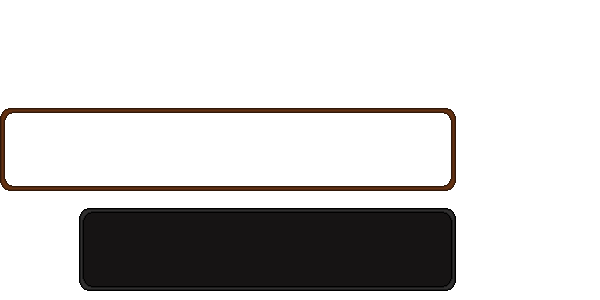
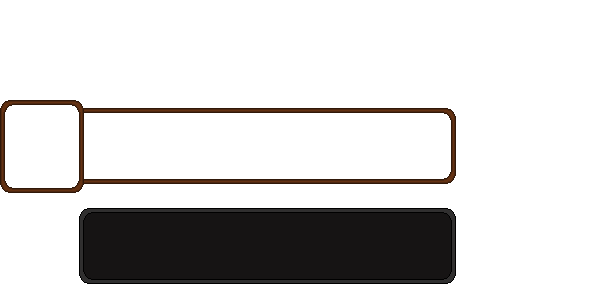
saving textbox improvement ^_^

Changed region(s): [[0.0, 0.33, 0.78, 0.66], [0.12, 0.9, 0.78, 0.99]]

diff --git a/scripts/npcScripts/npcDialogue.js b/scripts/npcScripts/npcDialogue.js
@@ -1427,13 +1427,13 @@ const npcDialogue = {
                 "introFastTravel":{
                     "node1":{
                         "dialogue": "Oh! A new face in town!",
-                        "profile":"autumnSmile",
+                        "profile":"autumnStarEyes",
                         "textvoice":"batChirp",
                         "children":["node2"]
                     },
                     "node2":{
                         "dialogue": "Name\'s Autumn, and me and my friend Moff are in charge of this lovely post office behind you!",
-                        "profile":"autumnSmile",
+                        "profile":"autumnHappy",
                         "textvoice":"batChirp",
                         "children":["node3"]
                     },
@@ -1445,13 +1445,13 @@ const npcDialogue = {
                     },
                     "node4":{
                         "dialogue": "If there\'s a place you have been to, then I would be happy to take you, for a small fee of course.",
-                        "profile":"autumnSmile",
+                        "profile":"autumnWinkAndHeart",
                         "textvoice":"batChirp",
                         "children":["node5"]
                     },
                     "node5":{
                         "dialogue": "Just let me know if you\'re interested! ",
-                        "profile":"autumnSmile",
+                        "profile":"autumnHappy",
                         "textvoice":"batChirp",
                         "children":[]
                     },
@@ -1459,7 +1459,7 @@ const npcDialogue = {
                 "fastTravel":{
                     "node1":{
                         "dialogue": "What\'s up? ",
-                        "profile":"autumnSmile",
+                        "profile":"autumnNeutral",
                         "textvoice":"batChirp",
                         "children":["node2"]
                     },
@@ -1479,7 +1479,7 @@ const npcDialogue = {
                     },
                     "node4":{
                         "dialogue": "Point me to it, and a hop, slurp, and a gulp, and we\'ll be there!",
-                        "profile":"autumnSmile",
+                        "profile":"autumnHappy",
                         "textvoice":"batChirp",
                         "children":["nodeAccept"]
                     },
@@ -1491,26 +1491,26 @@ const npcDialogue = {
                     },
                     "node5":{
                         "dialogue": "that will be 25 shell.",
-                        "profile":"autumnSmile",
+                        "profile":"autumnNeutral",
                         "textvoice":"batChirp",
                         "children":["nodeE","node8","node13"]
                     },
                     //here you go (and has the shell.)
                     "nodeE":{
                         "dialogue": "perfect!",
-                        "profile":"autumnSmile",
+                        "profile":"autumnHappy",
                         "textvoice":"batChirp",
                         "children":["node6"]
                     },
                     "node6":{
                         "dialogue": "up and...",
-                        "profile":"autumnSmile",
+                        "profile":"autumnNeutral",
                         "textvoice":"batChirp",
                         "children":["nodeA"]
                     },
                     "nodeA":{
                         "dialogue": "In you go.",
-                        "profile":"autumnSmile",
+                        "profile":"autumnSmirk",
                         "textvoice":"batChirp",
                         "children":["node7"]
                     },
@@ -1530,25 +1530,25 @@ const npcDialogue = {
                     //I dont have enough.
                     "node8":{
                         "dialogue": "oh... well I can still take you....",
-                        "profile":"autumnSmile",
+                        "profile":"autumnNeutral",
                         "textvoice":"batChirp",
                         "children":["node9"]
                     },
                     "node9":{
                         "dialogue": "Though I am likely to take my payment another way. ",
-                        "profile":"autumnSmile",
+                        "profile":"autumnWink",
                         "textvoice":"batChirp",
                         "children":["node10"]
                     },
                     "node10":{
                         "dialogue": "if your not careful. ",
-                        "profile":"autumnSmile",
+                        "profile":"autumnSmirk",
                         "textvoice":"batChirp",
                         "children":["node11"]
                     },
                     "node11":{
                         "dialogue": "up and...",
-                        "profile":"autumnSmile",
+                        "profile":"autumnNeutral",
                         "textvoice":"batChirp",
                         "children":["node12"]
                     },
@@ -1574,7 +1574,7 @@ const npcDialogue = {
 
                     "node13":{
                         "dialogue": "oh... ok. let me know if you change your mind.",
-                        "profile":"autumnSmile",
+                        "profile":"autumnNeutral",
                         "textvoice":"batChirp",
                         "children":[]
                     },
@@ -1600,14 +1600,14 @@ const npcDialogue = {
                     //exit dialogue
                     "nodeAutumnExit":{
                         "dialogue": "fair enough, see you around!",
-                        "profile":"autumnSmile",
+                        "profile":"autumnHappy",
                         "textvoice":"batChirp",
                         "children":[]
                     },
                 },
                 "landingSequence":{
                     "node1":{
-                        "dialogue": "We’ve made it dear, just go ahead and squirm your way out.",
+                        "dialogue": "We\'ve made it dear, just go ahead and squirm your way out.",
                         "profile":"autumnSmile",
                         "textvoice":"batChirp",
                         "children":["node3"]
@@ -1629,7 +1629,7 @@ const npcDialogue = {
                     },
                     "node5":{
                         "dialogue": "Hmm? Did you fall asleep in there honey?",
-                        "profile":"autumnSmile",
+                        "profile":"autumnNeutral",
                         "textvoice":"batChirp",
                         "children":["node6","node7"]
                     },
@@ -1651,7 +1651,7 @@ const npcDialogue = {
                     },
                     "node8":{
                         "dialogue": "Mmm, I understand, just close your cute little eyes and I\'ll take care of the rest",
-                        "profile":"autumnSmile",
+                        "profile":"autumnHappy",
                         "textvoice":"batChirp",
                         "children":["node9"]
                     },

diff --git a/scripts/uiScripts/textBoxProfile.js b/scripts/uiScripts/textBoxProfile.js
@@ -34,7 +34,17 @@ class textBoxProfile extends Phaser.Physics.Arcade.Sprite{
       this.anims.create({key: 'lunaClimax',frames: this.anims.generateFrameNames('lunalystEmots', { start:87, end:  87}),frameRate: 5,repeat: -1});
 
       this.anims.create({key: 'autumnSmile',frames: this.anims.generateFrameNames('autumnEmots', { start:0, end:  3}),frameRate: 5,repeat: -1});
-      this.anims.create({key: 'autumnHappy',frames: this.anims.generateFrameNames('autumnEmots', { start:4, end:  7}),frameRate: 5,repeat: -1});
+      this.anims.create({key: 'autumnNeutral',frames: this.anims.generateFrameNames('autumnEmots', { start:4, end:  4}),frameRate: 5,repeat: -1});
+      this.anims.create({key: 'autumnHappy',frames: this.anims.generateFrameNames('autumnEmots', { start:5, end:  8}),frameRate: 5,repeat: -1});
+      this.anims.create({key: 'autumnWink',frames: this.anims.generateFrameNames('autumnEmots', { start:9, end:  14}),frameRate: 4,repeat: -1});
+      this.anims.create({key: 'autumnWinkAndHeart',frames: this.anims.generateFrameNames('autumnEmots', { start:15, end:  20}),frameRate: 4,repeat: -1});
+      this.anims.create({key: 'autumnKO',frames: this.anims.generateFrameNames('autumnEmots', { start:21, end:  24}),frameRate: 5,repeat: -1});
+      this.anims.create({key: 'autumnStarEyes',frames: this.anims.generateFrameNames('autumnEmots', { start:25, end:  30}),frameRate: 5,repeat: -1});
+      this.anims.create({key: 'autumnSquish',frames: this.anims.generateFrameNames('autumnEmots', { start:31, end:  34}),frameRate: 5,repeat: -1});
+      this.anims.create({key: 'autumnHeartEyes',frames: this.anims.generateFrameNames('autumnEmots', { start:35, end:  39}),frameRate: 5,repeat: -1});
+      this.anims.create({key: 'autumnSmirk',frames: this.anims.generateFrameNames('autumnEmots', { start:40, end:  43}),frameRate: 5,repeat: -1});
+      this.anims.create({key: 'autumnAngry',frames: this.anims.generateFrameNames('autumnEmots', { start:44, end:  47}),frameRate: 5,repeat: -1});
+      
 
       this.anims.play("blank",true); 
     }

diff --git a/scripts/uiScripts/makeText.js b/scripts/uiScripts/makeText.js
@@ -30,7 +30,7 @@ class makeText extends Phaser.GameObjects.Container{
         this.middleX = 0;
         this.creditschoke = false;
 
-        this.defaultDuration = 600;
+        this.defaultDuration = 500;
 
         if(font === "charBubble"){
           this.setScale(1);
@@ -194,10 +194,11 @@ class makeText extends Phaser.GameObjects.Container{
           duration: this.defaultDuration,
           delay: counter*10,
           repeat: -1,
-          yoyo: true,onUpdate: () => {
+          yoyo: true,
+          /*onUpdate: () => {
             this.letters[counter].x = Math.round(this.letters[counter].x);
             this.letters[counter].y = Math.round(this.letters[counter].y);
-          }
+          }*/
       });
       }
     }

diff --git a/scripts/uiScripts/textBox.js b/scripts/uiScripts/textBox.js
@@ -53,7 +53,7 @@ class textBox extends Phaser.GameObjects.Container{
       this.completedText = false;
 
       //displays prtofile sprite meant to resemble what is currently talking to the player.
-      this.textBoxProfileImage = new textBoxProfile(scene, -250+this.textboxOffsetX, 0);
+      this.textBoxProfileImage = new textBoxProfile(scene, -257+this.textboxOffsetX, 0);
       this.add(this.textBoxProfileImage);
       
       this.currentText = "empty";
